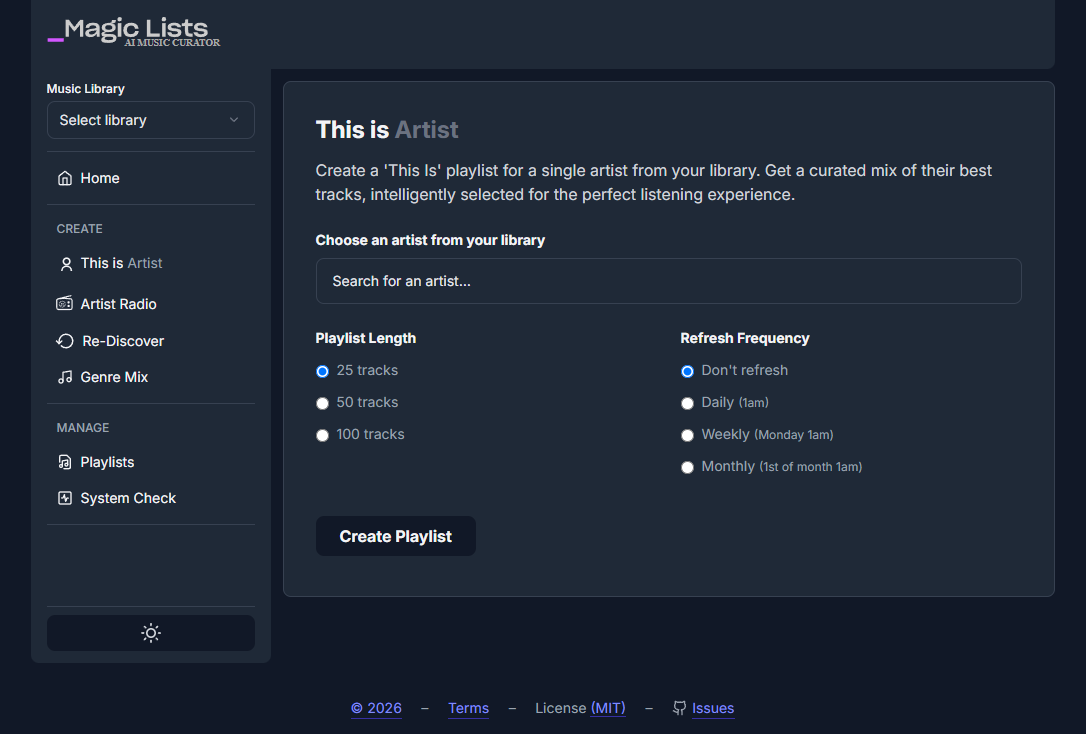
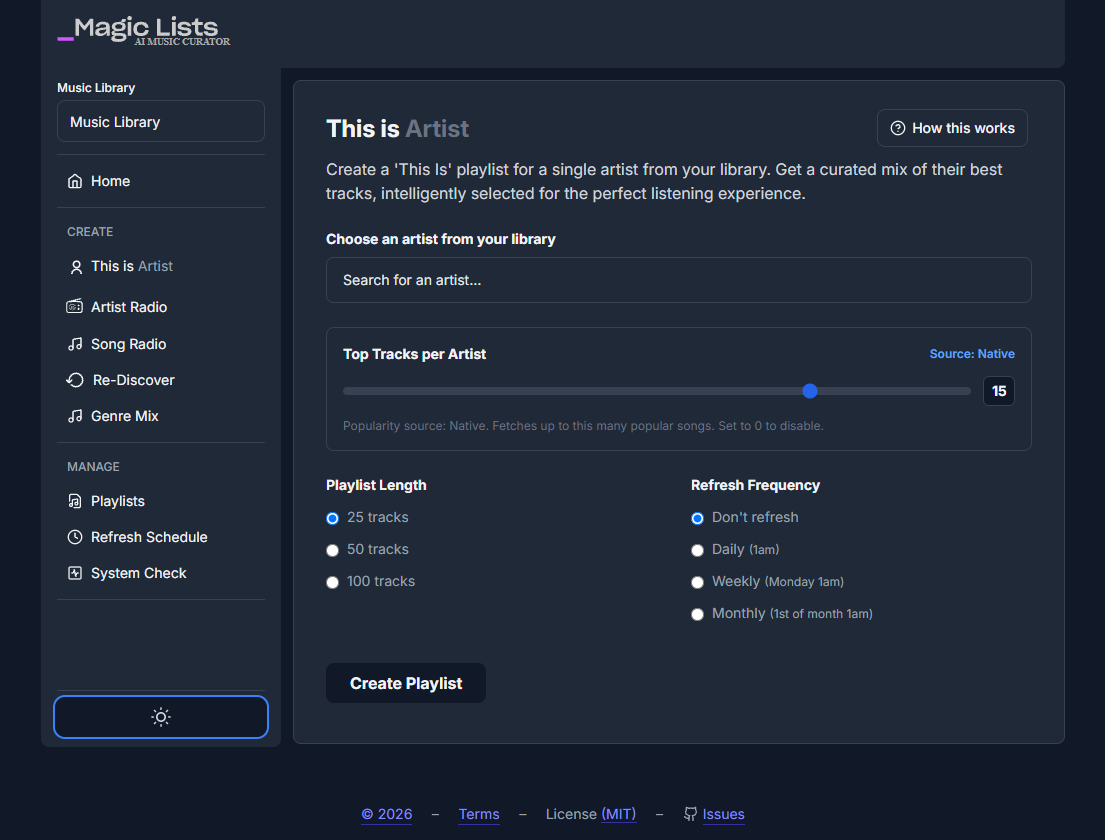
docs(images): update Readme images and add song and artist radio image
- Add feature description in FEATURES.md
- Add new screenshots for artist and song radio
- Update README.md with new feature and screenshots

diff --git a/docs/FEATURES.md b/docs/FEATURES.md
@@ -210,6 +210,24 @@ nothing to leave your network at all.
 
 ---
 
+## ⚡ No library scans
+
+MagicLists does not require you to run a full library scan for playlist generation. It uses the
+track, artist, album, genre, year, and play-information data that Navidrome or Jellyfin already
+exposes through its API, so generation does not re-read or analyze every audio file on your server.
+
+This means:
+
+- **No extra waiting** — there is no separate scan phase before a playlist can be built.
+- **Existing metadata is enough** — tracks and related library information are queried directly from your media server.
+- **Lower server load** — MagicLists works with targeted API requests instead of rescanning the entire library or filesystem.
+- **No audio analysis required** — playlist curation and matching depend on library metadata and the configured AI or similarity services, not on fingerprinting every track.
+- **Normal server indexing still matters** — your Navidrome or Jellyfin library should already be populated and updated by your media server. MagicLists does not replace that server-side scanning or indexing process.
+
+A playlist can be created as soon as MagicLists is connected to your media server. 
+
+---
+
 ## 🆕 What's new since the original version
 
 This project started as a fork of

diff --git a/README.md b/README.md
@@ -23,6 +23,7 @@ full description in **[docs/FEATURES.md](docs/FEATURES.md)**.
 | ✏ **[Playlist editing](docs/FEATURES.md#-playlist-editing)** | Rename, re-describe, change length, filters, or schedule — then save, or save and rebuild in one click. |
 | 🌙 **[Dark mode](docs/FEATURES.md#-dark-mode)** | A proper light and dark theme across the whole app. |
 | 🩺 **[System check](docs/FEATURES.md#-system-check)** | Validates your configuration on startup and tells you exactly what to fix. |
+| ⚡ **[No library scans](docs/FEATURES.md#-no-library-scans)** | Playlist building uses your server's existing library metadata — no full library scans, so there is no wasted waiting time. |
 
 👉 **[See all features, including everything new →](docs/FEATURES.md)**
 
@@ -42,6 +43,12 @@ _Creating a 'This is (Artist)' playlist_
 ![Genre Mix UI](assets/images/genremix-playlist.png)
 
 _Creating a 'Genre Mix' playlist_ 
+
+### Other Screenshots:
+
+#### [Artist Radio UI](assets/images/artist-radio.png)
+
+#### [Song Radio UI](assets/images/song-radio.png)
 
 
 ## What’s still a work in progress?
